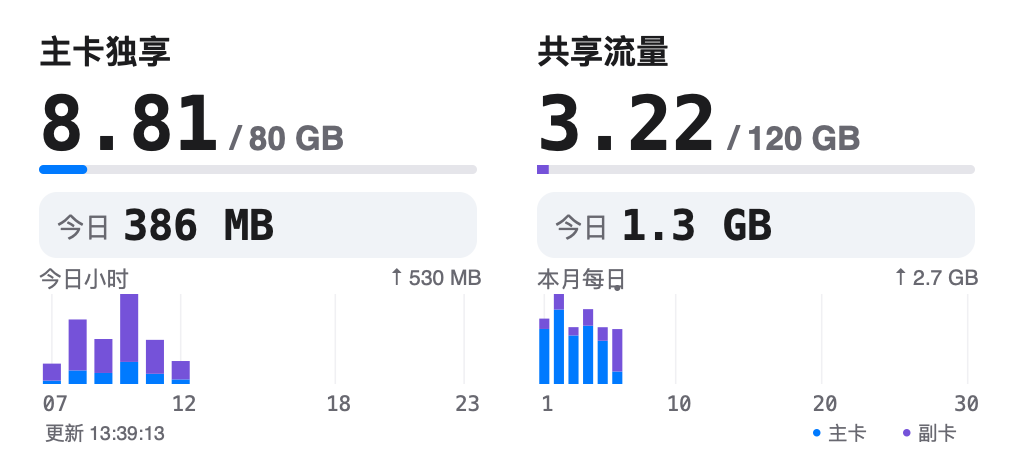
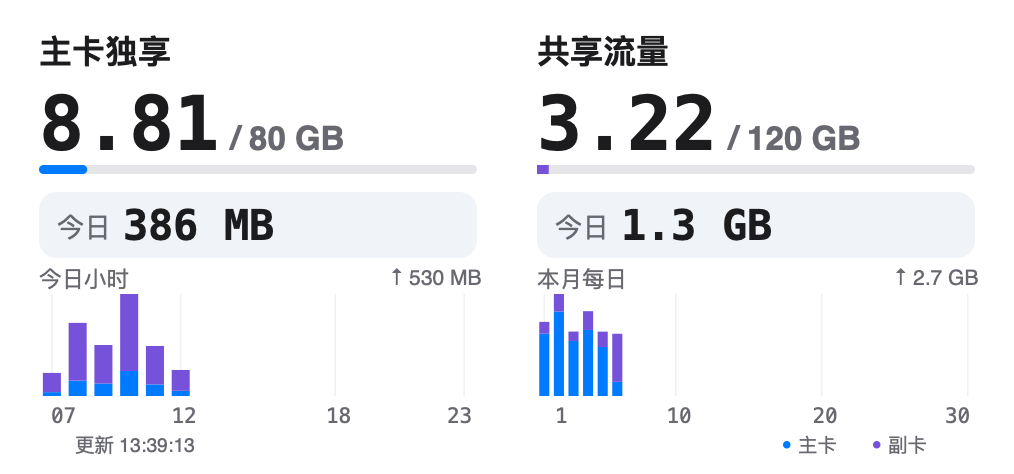
Fix Unicom chart labels and refine widget footer spacing

diff --git a/scriptable/UnicomFlow.js b/scriptable/UnicomFlow.js
@@ -1281,21 +1281,23 @@ function drawCompactChart(ctx, slots, title, x, y, width) {
   const peakLabel = sampled.length ? formatMB(peak, 'daily').replace(/(MB|GB)$/, ' $1') : '—';
   text(ctx, title, x, y - 10, width * 0.55, 10, 7.5, UF.muted);
   text(ctx, `↑ ${peakLabel}`, x + width * 0.55, y - 10, width * 0.45, 10, 7, UF.muted, false, 'right');
-  const unit = width / slots.reduce((n, d) => n + (d.weight || 1), 0), chartH = 128 - y;
+  const bottomY = 132;
+  const unit = width / slots.reduce((n, d) => n + (d.weight || 1), 0), chartH = bottomY - y;
   let offset = 0;
   slots.forEach(slot => {
     const cell = unit * (slot.weight || 1), center = x + offset + cell / 2;
     const barWidth = Math.max(1, Math.min(cell - 1.5, unit * 0.7));
     if (slot.label) {
       ctx.setFillColor(new Color(UF.gridMinor)); ctx.fillRect(new Rect(center - 0.25, y, 0.5, chartH));
-      const labelWidth = Math.min(width, Math.max(cell, slot.label.length * 4));
+      // 原先双位数仅分到8点宽，真机等宽字会截掉末位；额外预留左右空间。
+      const labelWidth = Math.min(width, Math.max(cell, numberWidth(slot.label, 7, 'usage'), 14));
       const labelX = Math.min(x + width - labelWidth, Math.max(x, center - labelWidth / 2));
-      text(ctx, slot.label, labelX, 130, labelWidth, 9, 7, UF.muted, true, true);
+      text(ctx, slot.label, labelX, bottomY + 2, labelWidth, 11, 7, UF.muted, true, true);
     }
     if (!slot.future && slot.samples && slot.mb != null) {
       if (slot.mb > 0) {
         const h = slot.mb / max * chartH;
-        let bottom = 128;
+        let bottom = bottomY;
         const parts = eventParts(slot);
         for (const [key, color] of [['mainMB', UF.blue], ['viceMB', UF.purple], ['unknownMB', UF.warning]]) {
           if (parts[key] <= 0) continue;
@@ -1303,9 +1305,8 @@ function drawCompactChart(ctx, slots, title, x, y, width) {
           bottom -= segment; ctx.setFillColor(new Color(color));
           ctx.fillRect(new Rect(center - barWidth / 2, bottom, barWidth, segment));
         }
-      } else { ctx.setFillColor(new Color(UF.track)); ctx.fillRect(new Rect(center - barWidth / 2, 127, barWidth, 1)); }
+      } else { ctx.setFillColor(new Color(UF.track)); ctx.fillRect(new Rect(center - barWidth / 2, bottomY - 1, barWidth, 1)); }
     }
-    if (slot.current) roundedRect(ctx, center - 1, y - 3, 2, 2, 1, UF.muted);
     offset += cell;
   });
 }
@@ -1339,7 +1340,7 @@ function renderImage(result, medium, width, height, mode = 'month') {
     const chartY = detailRow ? 106 : 98;
     drawCompactChart(ctx, widgetHourSlots(result.history, now), '今日小时', pad, chartY, col);
     const month = monthlyReport(result.history, now);
-    const days = month.days.map((d, index) => ({ ...d, samples: d.intervals, current: d.key === month.today,
+    const days = month.days.map((d, index) => ({ ...d, samples: d.intervals,
       label: [0, 9, 19, month.days.length - 1].includes(index) ? String(index + 1) : '' }));
     drawCompactChart(ctx, days, '本月每日', rightX, chartY, col);
   } else if (medium) {
@@ -1394,14 +1395,16 @@ function renderImage(result, medium, width, height, mode = 'month') {
   const label = medium ? status ? `${time} · ${status}` : `${result.manualRefresh ? '已刷新' : '更新'} ${time}`
     : compactStatus ? `${time} · ${compactStatus}` : `${result.manualRefresh ? '已刷新' : '更新'} ${time}`;
   // 图例解释整张卡片，置于底部右侧；左侧预留更新时间及异常提示。
-  const footerY = height - (medium ? 18 : 15);
+  // 综合中号底部两端各向内收10点、下移4点，避开圆角并把高度让给双图。
+  const footerY = height - (combined ? 14 : medium ? 18 : 15);
+  const footerX = pad + (combined ? 12 : 2);
+  const legendX = width - pad - (combined ? 64 : 54);
   const dailyHint = (today || combined) && !status && !daily.some(value => value != null)
     ? (todayBuckets(result.history, now).some(b => b.samples) ? '今日分类未确认' : '今日待采样') : '';
-  text(ctx, dailyHint ? `${dailyHint} · ${label}` : label, pad + 2, footerY,
-    width - 2 * pad - 4 - (medium ? 62 : 0), 9, 6.5,
+  text(ctx, dailyHint ? `${dailyHint} · ${label}` : label, footerX, footerY,
+    medium ? legendX - footerX - 10 : width - 2 * pad - 4, 9, 6.5,
     result.stale || data.warnings.length || metrics.omitted || incomplete ? UF.warning : UF.muted);
   if (medium) {
-    const legendX = width - pad - 54;
     [{ color: UF.blue, caption: '主卡' }, { color: UF.purple, caption: '副卡' }].forEach(({ color, caption }, index) => {
       const x = legendX + index * 30;
       roundedRect(ctx, x, footerY + 3, 2.5, 2.5, 1.25, color);

diff --git a/docs/unicom-flow/README.md b/docs/unicom-flow/README.md
@@ -21,7 +21,7 @@
 
 本月中号采用综合布局，不新增参数：左主卡独享、右共享流量，未识别共享属性时回退通用／定向。每栏顶部只保留套餐标题，大数字显示月已用，与总量同排（如 `8.81 / 80 GB`）；综合中号不显示百分比，保留2—3点高的横向月进度条。下方用一条薄浅底突出次一级的“今日”合计，“今日”标签与数值紧邻排列，不再左右拉开；白色、黑色主题分别使用对应浅底。共享池主卡用量确认为0且成员合计完整时，不显示逐卡明细；主卡实际共享用量大于0时，在月进度条下显示一行本月主／副卡用量；成员缺失或合计不符时显示“明细未确认”，保留灰条，不猜测。共享月进度条以套餐总量为整条宽度，蓝色主卡、紫色副卡相邻堆叠，不夸大短段；今日不再重复逐卡数字。
 
-综合中号底部左侧为“今日小时”，右侧为“本月每日”，都统计全部套餐；蓝色主卡包含独享和共享，紫色副卡为其共享用量，未知归属使用提示色。两图分别缩放并显示峰值，直接置于卡片背景上，不增加图表底框或分隔线；更新时间固定左下角，图例在右下角。没有采样和未来位置留空，真实零值才画短标记。月图按实际月份保留28—31个逐日位置，只标1、10、20及月末，另标记今天的位置。
+综合中号底部左侧为“今日小时”，右侧为“本月每日”，都统计全部套餐；蓝色主卡包含独享和共享，紫色副卡为其共享用量，未知归属使用提示色。两图分别缩放并显示峰值，直接置于卡片背景上，不增加图表底框或分隔线；更新时间在左下角、图例在右下角；综合中号两者分别向中间内收10点并下移4点，保留圆角安全区，双图绘图区和刻度随之向下延长4点。双位小时／日期标签至少预留14点宽及11点高，避免真机截断。没有采样和未来位置留空，真实零值才画短标记。月图按实际月份保留28—31个逐日位置，只标1、10、20及月末，不添加今日黑点标记。
 
 仅综合中号的小时图会隐藏低用量夜间：00—06点已完整结束、有效采样区间连续覆盖全段，且包含跨边界区间在内的用量上界严格小于10 MB时，不画“00–06”合并柱或夜间数值；横轴从06点后首个有正用量的小时起显示，例如07，并连续保留至23点，中间的零值、缺采样和未来位置不删除。尚无白天正用量时保留06—23的位置。正好06:00结束的夜间区间不在06时重复绘制。隐藏的夜间仍计入今日总量；达到10 MB、06点前、区间有缺口或跨边界用量无法确认时保留完整00—23。仅改变综合中号显示，不修改历史、独立今日中号或统计页。
 
